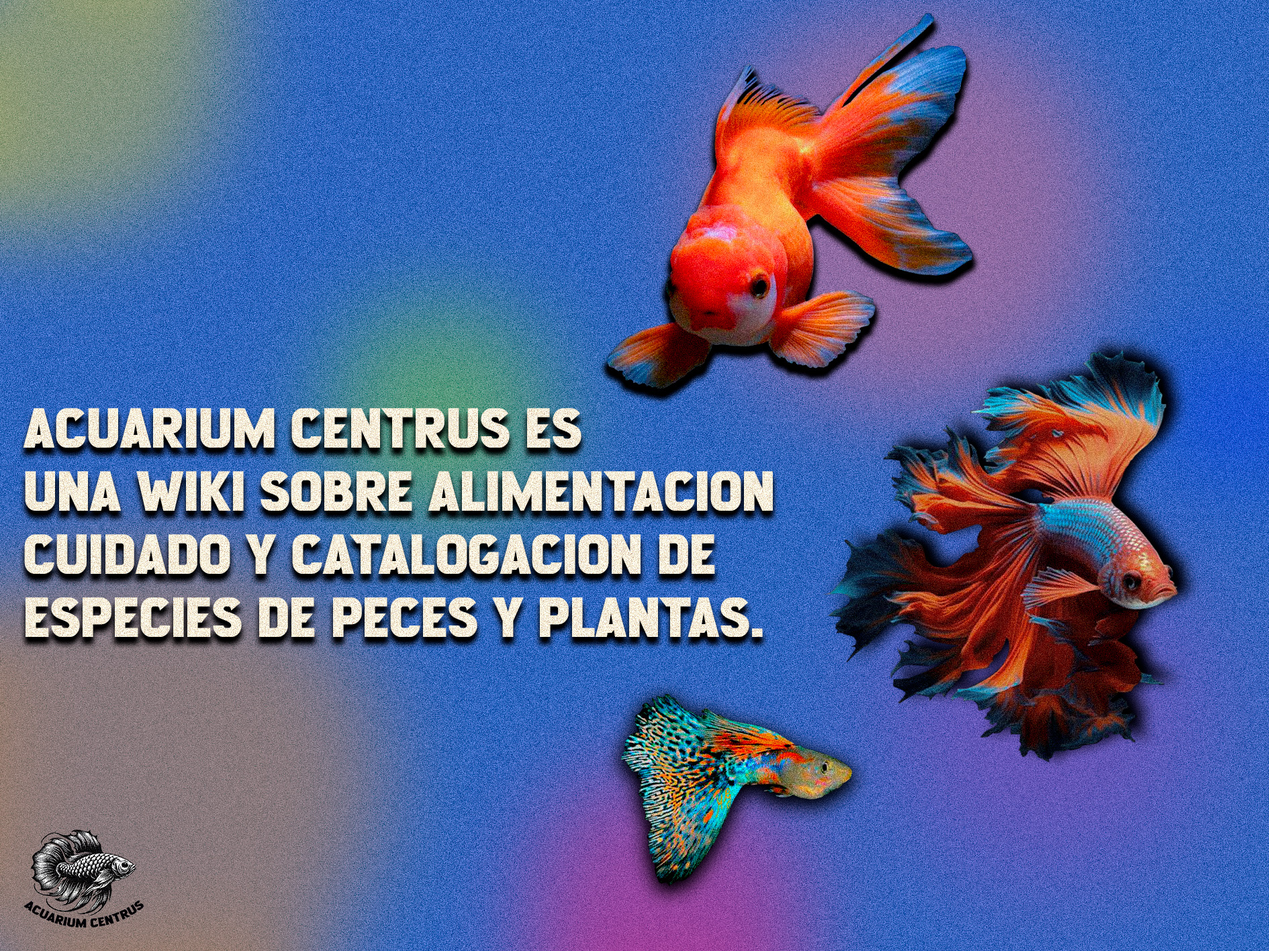
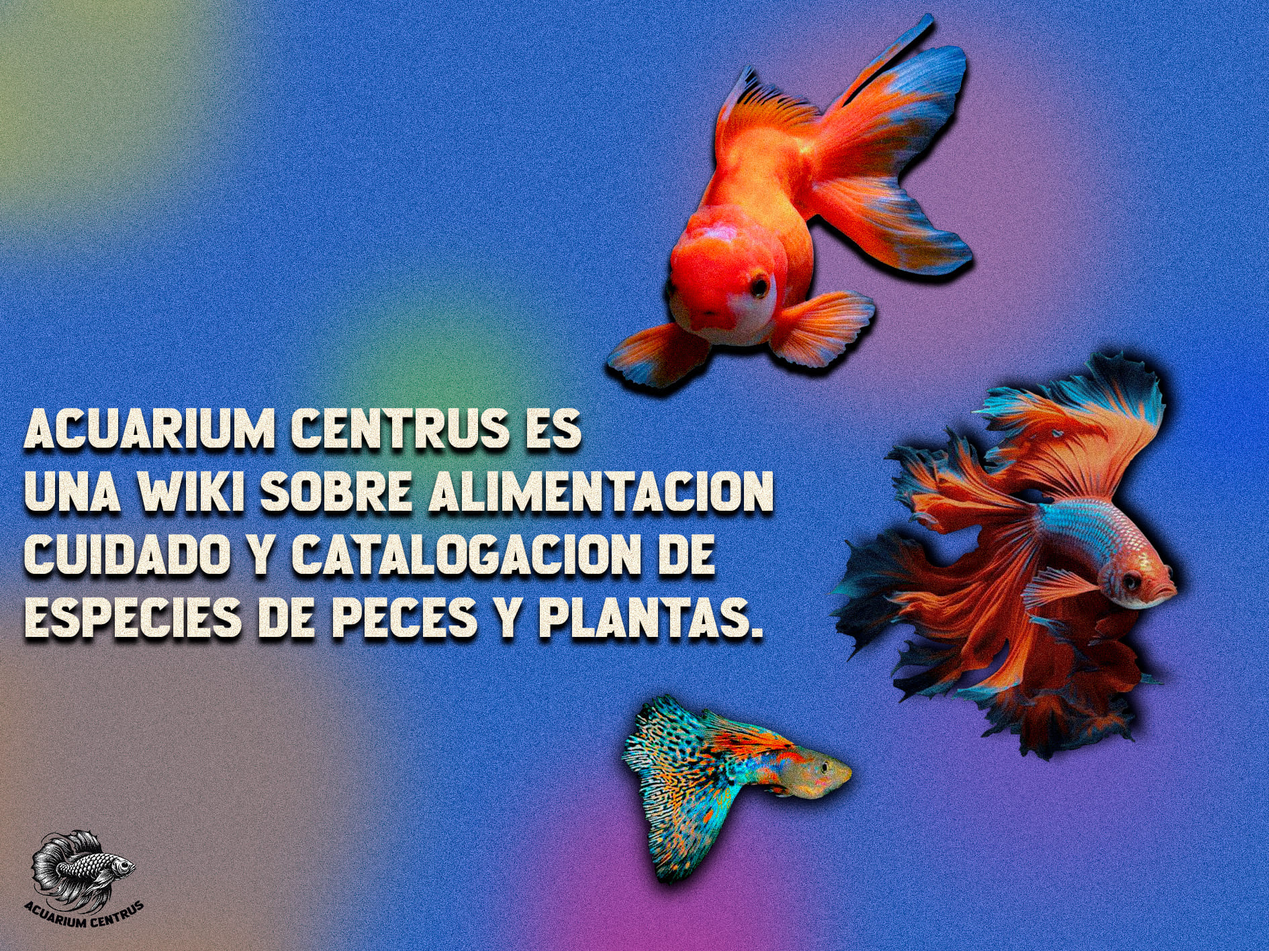
prueba-compresion-2

diff --git a/index.html b/index.html
@@ -64,7 +64,7 @@
 
         <div class="portada">
             <figure>
-                <img class="portada-img" src="./imagenes/wal-de-peces-agua-fria-otro-formato.webp" alt="imagen-explicativa-inicio">
+                <img class="portada-img" src="./imagenes/imagen-explicativa-inicio-otro-formato.webp" alt="imagen-explicativa-inicio">
             </figure>
         </div>
         <nav>

diff --git a/pages/peces-de-agua-fria.html b/pages/peces-de-agua-fria.html
@@ -62,7 +62,7 @@
             </h2>
 
             <figure>
-                <img src="../imagenes/wal-de-peces-agua-fria.jpg" alt="imagen-principal-de-section">
+                <img src="../imagenes/wal-de-peces-agua-fria-otro-formato.webp" alt="imagen-principal-de-section">
             </figure>
 
             
